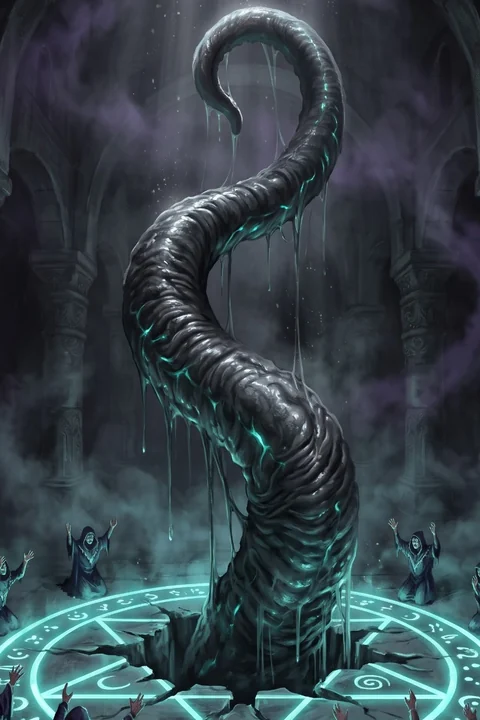
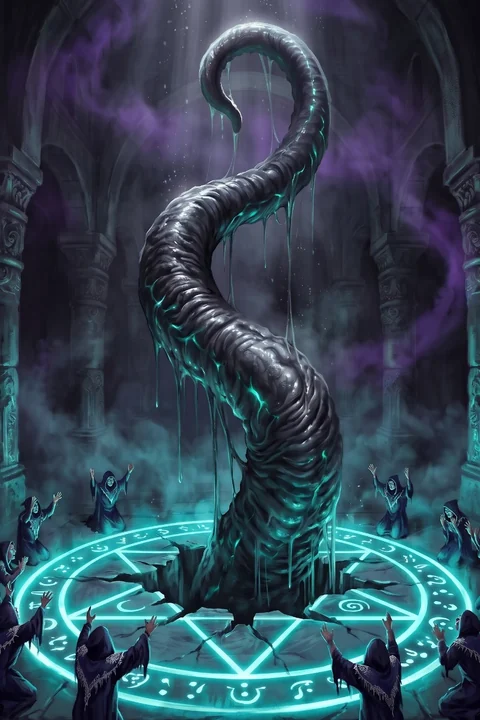
Refresh Sleeper Tentacle artwork

diff --git a/docs/app.js b/docs/app.js
@@ -1,38 +1,38 @@
 import { keepCardVideos, resumeCardVideos } from './ui/card-art.js?v=choir-playable-1';
-import { createLeagueDialogue, LEAGUE_DIALOGUE } from './game/league-dialogue.js?v=choir-playable-1';
+import { createLeagueDialogue, LEAGUE_DIALOGUE } from './game/league-dialogue.js?v=choir-art-6';
 import { setLeagueSpeech } from './ui/league-character.js?v=oran-avatar-1';
-import { createBaseScreen } from './ui/base-screen.js?v=choir-playable-1';
-import { deckEditor, deckHomeScreen, deckListScreen, factionPicker } from './ui/deck-builder.js?v=choir-playable-1';
-import { createDeckStorage } from './ui/deck-storage.js?v=choir-playable-1';
+import { createBaseScreen } from './ui/base-screen.js?v=choir-art-6';
+import { deckEditor, deckHomeScreen, deckListScreen, factionPicker } from './ui/deck-builder.js?v=choir-art-6';
+import { createDeckStorage } from './ui/deck-storage.js?v=choir-art-6';
 import { bindCardPlacement } from './card-placement.js?v=hounds-1';
-import { animateCoin, animateHandTurn, animateLifeLoss, animateTurnSparks, presentJournalEvent } from './card-motion.js?v=choir-playable-1';
+import { animateCoin, animateHandTurn, animateLifeLoss, animateTurnSparks, presentJournalEvent } from './card-motion.js?v=choir-art-6';
 import { clearParticles } from './particles.js?v=step-14';
-import { playJournal } from './turn-playback.js?v=choir-playable-1';
-import { BOT_DELAY_MS, chooseBotTurn } from './game/bot.js?v=choir-playable-1';
-import { findInPiles, placementSide } from './game/board.js?v=choir-playable-1';
-import { FACTIONS } from './game/cards.js?v=choir-playable-1';
-import { inspectDeck, PRESETS } from './game/decks.js?v=choir-playable-1';
-import { applyAction, createDeckMatch } from './game/match.js?v=choir-playable-1';
+import { playJournal } from './turn-playback.js?v=choir-art-6';
+import { BOT_DELAY_MS, chooseBotTurn } from './game/bot.js?v=choir-art-6';
+import { findInPiles, placementSide } from './game/board.js?v=choir-art-6';
+import { FACTIONS } from './game/cards.js?v=choir-art-6';
+import { inspectDeck, PRESETS } from './game/decks.js?v=choir-art-6';
+import { applyAction, createDeckMatch } from './game/match.js?v=choir-art-6';
 import { element, iconButton } from './ui/dom.js?v=opponent-reveal-1';
-import { cardArt, preview, showCard } from './ui/cards.js?v=choir-playable-1';
-import { createBattlefield } from './ui/field.js?v=choir-playable-1';
-import { mulliganScreen, updatePlacementSelection } from './ui/hand.js?v=choir-playable-1';
-import { createMatchMenu, describeBotAction, eventText } from './ui/menu.js?v=choir-playable-1';
-import { catalogScreen, finishedScreen, leaderScreen } from './ui/screens.js?v=choir-playable-1';
-import { createSettings } from './ui/settings.js?v=choir-playable-1';
+import { cardArt, preview, showCard } from './ui/cards.js?v=choir-art-6';
+import { createBattlefield } from './ui/field.js?v=choir-art-6';
+import { mulliganScreen, updatePlacementSelection } from './ui/hand.js?v=choir-art-6';
+import { createMatchMenu, describeBotAction, eventText } from './ui/menu.js?v=choir-art-6';
+import { catalogScreen, finishedScreen, leaderScreen } from './ui/screens.js?v=choir-art-6';
+import { createSettings } from './ui/settings.js?v=choir-art-6';
 
 import { createFactionStats } from './ui/stats.js?v=step-11';
-import { createRewardProgress, REWARD_STORAGE_KEY } from './game/rewards.js?v=choir-playable-1';
-import { createRewardBook } from './ui/reward-book.js?v=choir-playable-1';
-import { createBoosterOpening, createBoosterShop, economyDialog } from './ui/booster-screens.js?v=choir-playable-1';
+import { createRewardProgress, REWARD_STORAGE_KEY } from './game/rewards.js?v=choir-art-6';
+import { createRewardBook } from './ui/reward-book.js?v=choir-art-6';
+import { createBoosterOpening, createBoosterShop, economyDialog } from './ui/booster-screens.js?v=choir-art-6';
 import { createResourceBar, showEssenceGain } from './ui/resources.js?v=essence-gain-1';
 import { aimAnchor, aimTone, bindTargeting } from './ui/targeting.js?v=targeting-1';
-import { questComplete } from './game/tavern.js?v=choir-playable-1';
+import { questComplete } from './game/tavern.js?v=choir-art-6';
 import { rankStanding, wonRounds } from './game/ranks.js?v=monthly-ranks-1';
-import { BATTLEFIELD_STORAGE_KEY, createBattlefieldPreferences, createFramePreferences, decorationsScreen, FRAME_STORAGE_KEY } from './ui/decorations.js?v=choir-playable-1';
+import { BATTLEFIELD_STORAGE_KEY, createBattlefieldPreferences, createFramePreferences, decorationsScreen, FRAME_STORAGE_KEY } from './ui/decorations.js?v=choir-art-6';
 import { rankScreen } from './ui/rank-screen.js?v=essence-gain-1';
-import { leagueScreen, LEAGUE_OVERVIEW_QUERY } from './ui/league-screen.js?v=choir-playable-1';
-import { resetProgress } from './game/reset-progress.js?v=choir-playable-1';
+import { leagueScreen, LEAGUE_OVERVIEW_QUERY } from './ui/league-screen.js?v=choir-art-6';
+import { resetProgress } from './game/reset-progress.js?v=choir-art-6';
 import { createRewardReveal, enqueueReward } from './ui/reward-reveal.js?v=essence-gain-1';
 
 const app = document.querySelector('#app');

diff --git a/docs/ui/screens.js b/docs/ui/screens.js
@@ -1,16 +1,16 @@
 import { refreshPremiumArt, resumeCardVideos } from './card-art.js?v=choir-playable-1';
 import { leagueCharacter } from './league-character.js?v=oran-avatar-1';
 import { button, element, selectField } from './dom.js?v=opponent-reveal-1';
-import { createCard } from '../game/board.js?v=choir-playable-1';
-import { CARD_TYPES, FACTIONS, NEUTRAL, NEUTRAL_CARDS, RARITY_LABELS } from '../game/cards.js?v=choir-playable-1';
-import { FACTION_CATALOG } from '../game/faction-catalog.js?v=choir-playable-1';
+import { createCard } from '../game/board.js?v=choir-art-6';
+import { CARD_TYPES, FACTIONS, NEUTRAL, NEUTRAL_CARDS, RARITY_LABELS } from '../game/cards.js?v=choir-art-6';
+import { FACTION_CATALOG } from '../game/faction-catalog.js?v=choir-art-6';
 import { CAPTAIN_CARDS } from '../game/captains.js?v=captains-independent-1';
-import { addCardCrop, cardButton, showCard } from './cards.js?v=choir-playable-1';
-import { logView, roundText } from './menu.js?v=choir-playable-1';
+import { addCardCrop, cardButton, showCard } from './cards.js?v=choir-art-6';
+import { logView, roundText } from './menu.js?v=choir-art-6';
 import { availabilityOptions, filterCatalog } from './catalog-cards.js?v=choir-playable-1';
 import { factionFilters } from './faction-filters.js?v=faction-catalog-2';
-import { copyLimit } from '../game/decks.js?v=choir-playable-1';
-import { craftPrice, dismantleValue } from '../game/rewards.js?v=choir-playable-1';
+import { copyLimit } from '../game/decks.js?v=choir-art-6';
+import { craftPrice, dismantleValue } from '../game/rewards.js?v=choir-art-6';
 import { resourceIcon } from './resource-icon.js?v=1';
 import { sectionBack } from './resources.js?v=essence-gain-1';
 

diff --git a/docs/game/match.js b/docs/game/match.js
@@ -1,9 +1,9 @@
-import { inspectDeck, ORBITAL_STRIKE_PRESET, REBIRTH_PRESET } from './decks.js?v=choir-playable-1';
-import { FACTIONS, FIRST_SIGNAL, ROWS } from './cards.js?v=choir-playable-1';
-import { announcePlay, availableRows, cardType, changeCoins, createCard, discardCard, findUnit, HAND_LIMIT, opponent, placementSide, placeCards, playDestination, refreshHoundAura, refreshShipRowBonus, spendResilience, statusCount, takeCards } from './board.js?v=choir-playable-1';
-import { availableFees, availableOrders, canCast, canUseLeader, enqueueCardEffect, enqueueEndTurn, enqueueStartTurn, orderAbility, playTiming, runEffect } from './effects.js?v=choir-playable-1';
+import { inspectDeck, ORBITAL_STRIKE_PRESET, REBIRTH_PRESET } from './decks.js?v=choir-art-6';
+import { FACTIONS, FIRST_SIGNAL, ROWS } from './cards.js?v=choir-art-6';
+import { announcePlay, availableRows, cardType, changeCoins, createCard, discardCard, findUnit, HAND_LIMIT, opponent, placementSide, placeCards, playDestination, refreshHoundAura, refreshShipRowBonus, spendResilience, statusCount, takeCards } from './board.js?v=choir-art-6';
+import { availableFees, availableOrders, canCast, canUseLeader, enqueueCardEffect, enqueueEndTurn, enqueueStartTurn, orderAbility, playTiming, runEffect } from './effects.js?v=choir-art-6';
 
-export { availableRows, HAND_LIMIT, ROW_LIMIT } from './board.js?v=choir-playable-1';
+export { availableRows, HAND_LIMIT, ROW_LIMIT } from './board.js?v=choir-art-6';
 
 const SIDES = ['human', 'bot'];
 const STARTING_LIVES = 2;

diff --git a/docs/ui/field.js b/docs/ui/field.js
@@ -1,12 +1,12 @@
 import { leagueCharacter } from './league-character.js?v=oran-avatar-1';
-import { activeOrder, opponent, restoreCard, statusCount } from '../game/board.js?v=choir-playable-1';
+import { activeOrder, opponent, restoreCard, statusCount } from '../game/board.js?v=choir-art-6';
 import { insertionPoint, placementEffectRows } from '../card-placement.js?v=hounds-1';
 import { button, element, iconButton, sideLabel } from './dom.js?v=opponent-reveal-1';
-import { ROWS, ROW_LABELS } from '../game/cards.js?v=choir-playable-1';
-import { cardArt, cardButton, cardInspection, decorateCard, showCard } from './cards.js?v=choir-playable-1';
-import { playerHand } from './hand.js?v=choir-playable-1';
-import { availableFees, availableOrders, canUseLeader, leaderCooldown, rowArmor, ROW_EFFECTS } from '../game/effects.js?v=choir-playable-1';
-import { HAND_LIMIT, ROW_LIMIT, canEndTurn, canPass, rowScore, totalScore } from '../game/match.js?v=choir-playable-1';
+import { ROWS, ROW_LABELS } from '../game/cards.js?v=choir-art-6';
+import { cardArt, cardButton, cardInspection, decorateCard, showCard } from './cards.js?v=choir-art-6';
+import { playerHand } from './hand.js?v=choir-art-6';
+import { availableFees, availableOrders, canUseLeader, leaderCooldown, rowArmor, ROW_EFFECTS } from '../game/effects.js?v=choir-art-6';
+import { HAND_LIMIT, ROW_LIMIT, canEndTurn, canPass, rowScore, totalScore } from '../game/match.js?v=choir-art-6';
 
 import { orderBadge } from './stat-badges.js?v=suppressor-1';
 

diff --git a/docs/game/rewards.js b/docs/game/rewards.js
@@ -1,11 +1,11 @@
 import { rankRewards, syncRanks } from './ranks.js?v=monthly-ranks-1';
-import { advanceTavern, questComplete, replaceTavernQuest, syncTavern, TAVERN_QUEST_BY_ID, tavernEventAmounts, trackTavernMatch } from './tavern.js?v=choir-playable-1';
-import { createLeague, DIAMOND, finishLeagueMatch, leagueStake, needsLeagueReset, reserveLeagueMatch, resetLeagueWeek, upgradeLeague } from './league.js?v=choir-playable-1';
+import { advanceTavern, questComplete, replaceTavernQuest, syncTavern, TAVERN_QUEST_BY_ID, tavernEventAmounts, trackTavernMatch } from './tavern.js?v=choir-art-6';
+import { createLeague, DIAMOND, finishLeagueMatch, leagueStake, needsLeagueReset, reserveLeagueMatch, resetLeagueWeek, upgradeLeague } from './league.js?v=choir-art-6';
 import { victoryGold, weeklyReward } from './outpost.js?v=base-outpost-1';
 import { advanceProduction, productionView, readProduction, takeProduction } from './base-production.js?v=tavern-1';
 import { buildingPrice, buildingSlot, constructionShortages, creditMaterials, readBase } from './base.js?v=tavern-1';
-import { FACTIONS, NEUTRAL, NEUTRAL_CARDS } from './cards.js?v=choir-playable-1';
-import { copyLimit, inspectDeck } from './decks.js?v=choir-playable-1';
+import { FACTIONS, NEUTRAL, NEUTRAL_CARDS } from './cards.js?v=choir-art-6';
+import { copyLimit, inspectDeck } from './decks.js?v=choir-art-6';
 import { CAPTAIN_CARDS } from './captains.js?v=captains-independent-1';
 
 export const STARTING_KEYS = 10000;

diff --git a/docs/game/bot.js b/docs/game/bot.js
@@ -1,10 +1,10 @@
-import { ROWS } from './cards.js?v=choir-playable-1';
-import { cardType, findUnit, isUnit, neighbors, restoreCard, statusCount, units } from './board.js?v=choir-playable-1';
-import { availableOrders, canUseLeader, cleansePriority, deckCardValue, destructionSwing, effectSwing, infectionGain, lockPriority, rowArmor, rowDamage, rowEffectValue, rowScatterValue } from './effects.js?v=choir-playable-1';
-import { HAND_LIMIT, ROUND_DRAW, ROW_LIMIT, playableCards, totalScore } from './match.js?v=choir-playable-1';
+import { ROWS } from './cards.js?v=choir-art-6';
+import { cardType, findUnit, isUnit, neighbors, restoreCard, statusCount, units } from './board.js?v=choir-art-6';
+import { availableOrders, canUseLeader, cleansePriority, deckCardValue, destructionSwing, effectSwing, infectionGain, lockPriority, rowArmor, rowDamage, rowEffectValue, rowScatterValue } from './effects.js?v=choir-art-6';
+import { HAND_LIMIT, ROUND_DRAW, ROW_LIMIT, playableCards, totalScore } from './match.js?v=choir-art-6';
 
 import { deathwishDefinitions } from './events.js?v=ulmarin-1';
-import { chooseStrategicTarget, chooseStrategicTurn } from './bot-strategy.js?v=choir-playable-1';
+import { chooseStrategicTarget, chooseStrategicTurn } from './bot-strategy.js?v=choir-art-6';
 
 export const BOT_RULES = Object.freeze({ passLead: 12, cardDeficitLimit: 1 });
 export const BOT_DELAY_MS = 700;

diff --git a/docs/game/bot-strategy.js b/docs/game/bot-strategy.js
@@ -1,9 +1,9 @@
-import { compareRollouts } from './bot-rollouts.js?v=choir-playable-1';
-import { ROWS } from './cards.js?v=choir-playable-1';
-import { activeOrder, cardType, findUnit, infectionDamage, opponent, placementSide, statusCount, units } from './board.js?v=choir-playable-1';
-import { availableOrders, canUseLeader, cleansePriority, deckCardValue, destructionRolls, destructionSwing, lockPriority, rowArmor, rowEffectValue } from './effects.js?v=choir-playable-1';
+import { compareRollouts } from './bot-rollouts.js?v=choir-art-6';
+import { ROWS } from './cards.js?v=choir-art-6';
+import { activeOrder, cardType, findUnit, infectionDamage, opponent, placementSide, statusCount, units } from './board.js?v=choir-art-6';
+import { availableOrders, canUseLeader, cleansePriority, deckCardValue, destructionRolls, destructionSwing, lockPriority, rowArmor, rowEffectValue } from './effects.js?v=choir-art-6';
 import { cardAbilities, isLocked } from './events.js?v=ulmarin-1';
-import { HAND_LIMIT, ROUND_DRAW, ROW_LIMIT, applyAction, playableCards, totalScore } from './match.js?v=choir-playable-1';
+import { HAND_LIMIT, ROUND_DRAW, ROW_LIMIT, applyAction, playableCards, totalScore } from './match.js?v=choir-art-6';
 
 const PASS = { type: 'pass' };
 const END = { type: 'end-turn' };

diff --git a/docs/ui/deck-builder.js b/docs/ui/deck-builder.js
@@ -1,8 +1,8 @@
-import { FACTIONS, NEUTRAL, CARD_TYPES, RARITY_LABELS } from '../game/cards.js?v=choir-playable-1';
-import { FACTION_CATALOG, UPCOMING_FACTIONS } from '../game/faction-catalog.js?v=choir-playable-1';
-import { createCard } from '../game/board.js?v=choir-playable-1';
-import { collection, copyLimit, inspectDeck, MIN_CARDS, MIN_UNITS, PRESETS } from '../game/decks.js?v=choir-playable-1';
-import { addCardCrop, cardButton } from './cards.js?v=choir-playable-1';
+import { FACTIONS, NEUTRAL, CARD_TYPES, RARITY_LABELS } from '../game/cards.js?v=choir-art-6';
+import { FACTION_CATALOG, UPCOMING_FACTIONS } from '../game/faction-catalog.js?v=choir-art-6';
+import { createCard } from '../game/board.js?v=choir-art-6';
+import { collection, copyLimit, inspectDeck, MIN_CARDS, MIN_UNITS, PRESETS } from '../game/decks.js?v=choir-art-6';
+import { addCardCrop, cardButton } from './cards.js?v=choir-art-6';
 import { button, element, selectField } from './dom.js?v=opponent-reveal-1';
 import { factionFilters } from './faction-filters.js?v=faction-catalog-2';
 import { resourceIcon } from './resource-icon.js?v=faction-catalog-2';

diff --git a/docs/game/effects.js b/docs/game/effects.js
@@ -1,10 +1,10 @@
 import { cardAbilities, deathwishDefinitions, deathwishJobs, emit, isLocked } from './events.js?v=ulmarin-1';
-import { FACTIONS, NEUTRAL_CARDS, ROWS, ROW_LABELS } from './cards.js?v=choir-playable-1';
+import { FACTIONS, NEUTRAL_CARDS, ROWS, ROW_LABELS } from './cards.js?v=choir-art-6';
 import {
   activeOrder, announcePlay, appearanceJobs, applyStatus, availableRows, boost, capture, captureDestination, cardType, createCard, changeCoins, cleansableStatuses, cleanse, consume, damage, damageOverflow, findUnit,
   changeBasePower, findInPiles, heal, isUnit, neighbors, opponent, placementSide, placeCards, playDestination, removeUnit, restoreCard, ROW_LIMIT,
   refreshHoundAura, refreshShipRowBonus, setRowEffect, spawnCards, statusCount, statusEndTurn, takeCards, tickInfection, infectionDamage, transformUnit, units, weaken,
-} from './board.js?v=choir-playable-1';
+} from './board.js?v=choir-art-6';
 import { CAPTAIN_CARDS, HOUND_CATEGORY } from './captains.js?v=captains-independent-1';
 
 function reference(match, job, key = 'source') {

diff --git a/docs/game/bot-rollouts.js b/docs/game/bot-rollouts.js
@@ -1,8 +1,8 @@
-import { FACTIONS, ROWS } from './cards.js?v=choir-playable-1';
-import { createCard, isUnit, opponent, placementSide, ROW_LIMIT } from './board.js?v=choir-playable-1';
-import { collection, copyLimit } from './decks.js?v=choir-playable-1';
-import { applyAction, canPass, confirmMulligan, mulliganLimit, playableCards, totalScore } from './match.js?v=choir-playable-1';
-import { availableOrders, canUseLeader, effectSwing, infectionGain, rowArmor } from './effects.js?v=choir-playable-1';
+import { FACTIONS, ROWS } from './cards.js?v=choir-art-6';
+import { createCard, isUnit, opponent, placementSide, ROW_LIMIT } from './board.js?v=choir-art-6';
+import { collection, copyLimit } from './decks.js?v=choir-art-6';
+import { applyAction, canPass, confirmMulligan, mulliganLimit, playableCards, totalScore } from './match.js?v=choir-art-6';
+import { availableOrders, canUseLeader, effectSwing, infectionGain, rowArmor } from './effects.js?v=choir-art-6';
 
 const PASS = { type: 'pass' };
 const END = { type: 'end-turn' };

diff --git a/docs/ui/cards.js b/docs/ui/cards.js
@@ -1,9 +1,9 @@
 import { dialogClose } from './resources.js?v=essence-gain-1';
 import { button, element, selectField, setCardRarity } from './dom.js?v=opponent-reveal-1';
-import { CARD_TYPES, KEYWORDS, NEUTRAL, RARITY_LABELS, ROW_LABELS } from '../game/cards.js?v=choir-playable-1';
-import { FACTION_CATALOG } from '../game/faction-catalog.js?v=choir-playable-1';
-import { basePower, cardType, createCard, isUnit, statusCount } from '../game/board.js?v=choir-playable-1';
-import { relatedEffectCards } from '../game/effects.js?v=choir-playable-1';
+import { CARD_TYPES, KEYWORDS, NEUTRAL, RARITY_LABELS, ROW_LABELS } from '../game/cards.js?v=choir-art-6';
+import { FACTION_CATALOG } from '../game/faction-catalog.js?v=choir-art-6';
+import { basePower, cardType, createCard, isUnit, statusCount } from '../game/board.js?v=choir-art-6';
+import { relatedEffectCards } from '../game/effects.js?v=choir-art-6';
 import { resourceIcon } from './resource-icon.js?v=1';
 
 import { deathwishDefinitions } from '../game/events.js?v=ulmarin-1';

diff --git a/docs/ui/hand.js b/docs/ui/hand.js
@@ -1,8 +1,8 @@
 import { placementEffectRows } from '../card-placement.js?v=hounds-1';
 import { button, element } from './dom.js?v=opponent-reveal-1';
-import { availableRows, cardType, placementSide } from '../game/board.js?v=choir-playable-1';
-import { canPlayCard, confirmMulligan, mulliganRemaining, replaceMulliganCard } from '../game/match.js?v=choir-playable-1';
-import { cardButton, showCard } from './cards.js?v=choir-playable-1';
+import { availableRows, cardType, placementSide } from '../game/board.js?v=choir-art-6';
+import { canPlayCard, confirmMulligan, mulliganRemaining, replaceMulliganCard } from '../game/match.js?v=choir-art-6';
+import { cardButton, showCard } from './cards.js?v=choir-art-6';
 
 export function updatePlacementSelection(screen, match, selectedCardId) {
   const card = match.players.human.hand.find(({ id }) => id === selectedCardId);
